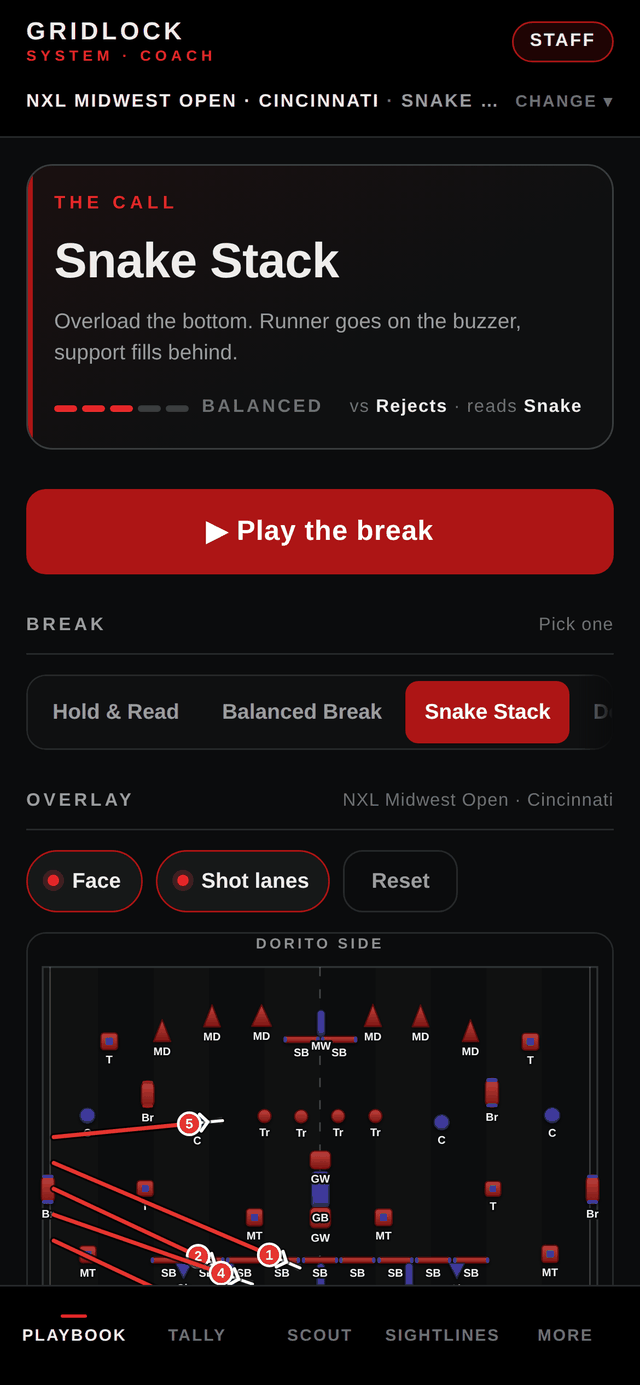
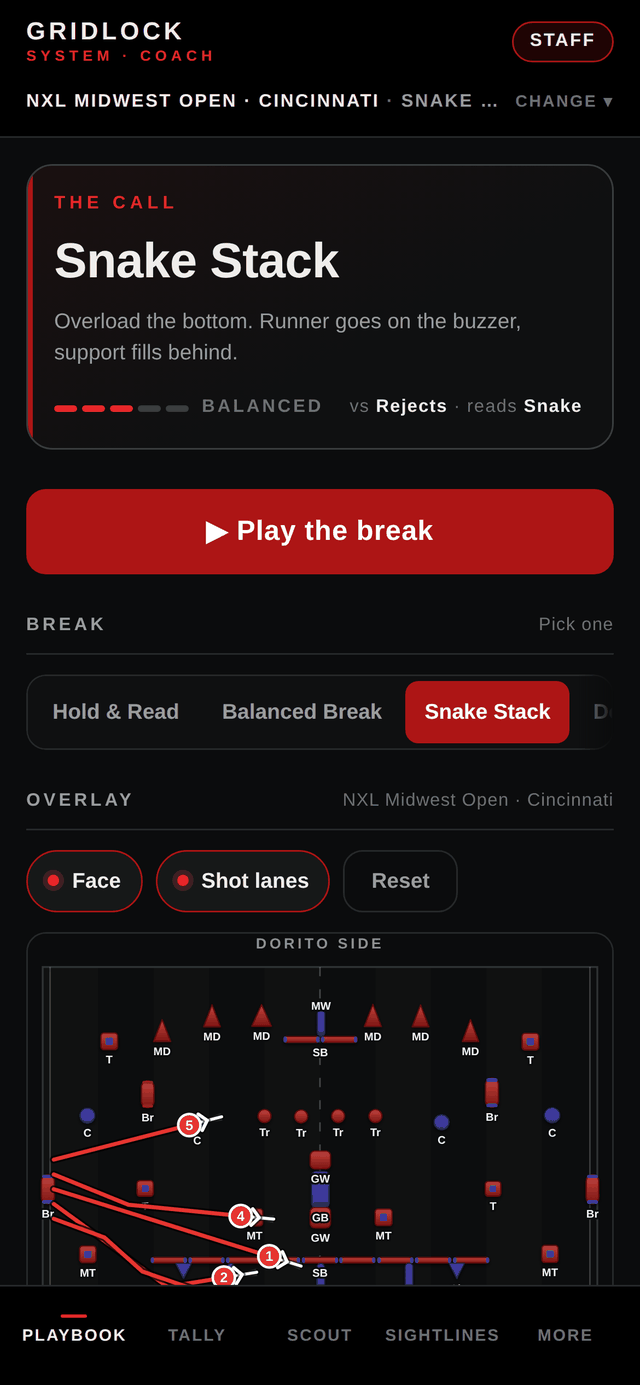
Route the break around bunkers instead of through them
The five used to run straight lines to their plants, which put four legs
clean through the snake and one through Ck. That is not a break, and a
coach who saw it would stop trusting the rest of the screen.

- Route on a visibility graph. Every obstacle corner is a place to plant a
  foot; join the start, the target and those corners wherever the leg
  between them is clear, and take the shortest chain. The old cornering
  loop nudged at a blockage and gave up after ten passes — this one is
  shortest-clear-route or nothing. All 25 legs across the five breaks are
  now clear, worst case three corners.
- Cache the routing per layout+script. It is the same until one of them
  changes, and the break animation asks for it every frame.
- Label a structure once, not once per section. The snake is nine printed
  sections a coach calls by one name, so touching same-code footprints get
  a single code at the middle of the run. Big structures claim their slot
  first, which clears the pile-up around the centre.
- Four routing checks in the suite, so none of this can quietly rot: no leg
  through a bunker, no leg wandering, never more than one player on the
  snake, and the five break from one station.

126/126 function checks, 58/58 bunkers at 0.00 ft, load test within budget.

Claude-Session: https://claude.ai/code/session_019NY29crEcm2oYkRmb2ARNX

diff --git a/web/index.html b/web/index.html
@@ -448,13 +448,16 @@ function breakMeta(k){ return BREAK_META[k] || BREAK_META.base; }
 // A break on a digitized layout is written as the bunker each player plants
 // on, never as a typed coordinate — the position comes from the layout, so
 // the call stays true to the field even if the map is re-digitized.
+// The snake is one continuous beam a player crawls down, not nine bunkers to
+// share out — the official 3D makes that plain. So exactly one player takes it
+// on any break; the rest support off it.
 const BREAK_PLANTS = {
   mwo: {
-    hold:  ["Br#5","T#3","Br#2","T#1","MT#4"],
-    base:  ["SB#4","MT#1","C#4","MD#3","Br#5"],
-    snake: ["SB#6","SB#4","GP#1","MW#3","C#4"],
-    flood: ["MD#1","MD#3","Tr#1","C#4","SB#4"],
-    blitz: ["SB#6","MD#1","Tr#4","GP#1","MT#1"]
+    hold:  ["Ck#1","T#3","Br#2","T#1","MT#4"],
+    base:  ["SB#4","MW#3","MT#1","MD#3","C#4"],
+    snake: ["SB#6","MW#3","GP#1","MT#1","C#4"],
+    flood: ["MD#1","MD#3","Tr#1","C#4","SB#3"],
+    blitz: ["SB#6","GP#1","Tr#4","MD#1","MT#1"]
   }
 };
 
@@ -462,6 +465,91 @@ const BREAK_PLANTS = {
 function wireOf(y){
   return y > 88 ? "snake wire" : y > 66 ? "snake side"
        : y > 44 ? "centre"     : y > 24 ? "dorito side" : "dorito wire";
+}
+
+// Nobody runs through a bunker, and nobody runs through the snake.
+//
+// The snake is one continuous structure printed as nine sections, so for
+// routing they are merged back into a single obstacle — otherwise stepping
+// around one section just lands you in the next. Any bunkers of the same code
+// whose footprints touch are merged the same way.
+function routeObstacles(list, pad){
+  pad = pad === undefined ? 0.9 : pad;   // players run within a foot of a bunker
+  let boxes = list.map(b => ({ids:[b.id], n:b.n,
+    x0:b.x-(b.w||4)/2-pad, x1:b.x+(b.w||4)/2+pad,
+    y0:b.y-(b.h||4)/2-pad, y1:b.y+(b.h||4)/2+pad}));
+  for(let pass = 0; pass < 6; pass++){
+    let merged = false;
+    outer:
+    for(let i = 0; i < boxes.length; i++){
+      for(let j = i + 1; j < boxes.length; j++){
+        const a = boxes[i], b = boxes[j];
+        if(a.n !== b.n) continue;
+        if(a.x0 > b.x1 + 1.5 || b.x0 > a.x1 + 1.5) continue;
+        if(a.y0 > b.y1 + 1.5 || b.y0 > a.y1 + 1.5) continue;
+        boxes[i] = {ids:a.ids.concat(b.ids), n:a.n,
+          x0:Math.min(a.x0,b.x0), x1:Math.max(a.x1,b.x1),
+          y0:Math.min(a.y0,b.y0), y1:Math.max(a.y1,b.y1)};
+        boxes.splice(j, 1);
+        merged = true;
+        break outer;
+      }
+    }
+    if(!merged) break;
+  }
+  return boxes.map(o => ({ids:new Set(o.ids), n:o.n,
+    x:(o.x0+o.x1)/2, y:(o.y0+o.y1)/2, hw:(o.x1-o.x0)/2, hh:(o.y1-o.y0)/2}));
+}
+
+// Route around whatever is in the way, the way a player does: run to a corner,
+// then on. A player never trades a clear lane for a shorter one they cannot
+// take, so this picks the shortest route that is actually clear rather than
+// nudging at the blockage until it gives up.
+//
+// Every corner of every obstacle is a place you can plant a foot. Join the
+// start, the target and all those corners wherever the leg between them is
+// clear, and take the shortest chain. If no chain exists the player is walled
+// in and the straight line stands.
+function routeClear(from, to, targetId, obstacles){
+  // You cannot collide with the bunker you are standing behind: the five start
+  // with a hand on the back-centre bunker, so whatever contains the start is
+  // not an obstacle for that player. Nor is the bunker they are running to.
+  const holds = o => Math.abs(from[0]-o.x) <= o.hw && Math.abs(from[1]-o.y) <= o.hh;
+  const live = obstacles.filter(o => !o.ids.has(targetId) && !holds(o));
+  const clear = (a, b) => !live.some(o => segHitsBox(a[0],a[1],b[0],b[1],o.x,o.y,o.hw,o.hh));
+  const inField = c => c[0] > 1 && c[0] < 149 && c[1] > 1 && c[1] < 119;
+
+  if(clear(from, to)) return [];
+
+  const m = 1.4;                       // a shoulder's clearance off the corner
+  const nodes = [from, to];
+  live.forEach(o => {
+    [[-1,-1],[1,-1],[-1,1],[1,1]].forEach(([sx,sy]) => {
+      const c = [o.x + sx*(o.hw+m), o.y + sy*(o.hh+m)];
+      if(inField(c) && !live.some(k => Math.abs(c[0]-k.x) < k.hw && Math.abs(c[1]-k.y) < k.hh)) nodes.push(c);
+    });
+  });
+
+  const N = nodes.length;
+  const dist = nodes.map(() => Infinity), prev = nodes.map(() => -1), done = nodes.map(() => false);
+  dist[0] = 0;
+  for(;;){
+    let u = -1;
+    for(let i = 0; i < N; i++) if(!done[i] && dist[i] < (u < 0 ? Infinity : dist[u])) u = i;
+    if(u < 0 || u === 1) break;
+    done[u] = true;
+    for(let v = 0; v < N; v++){
+      if(done[v] || v === u) continue;
+      const d = dist[u] + Math.hypot(nodes[v][0]-nodes[u][0], nodes[v][1]-nodes[u][1]);
+      if(d >= dist[v] || !clear(nodes[u], nodes[v])) continue;
+      dist[v] = d; prev[v] = u;
+    }
+  }
+  if(prev[1] < 0) return [];           // walled in — draw it straight and honest
+
+  const via = [];
+  for(let k = prev[1]; k > 1; k = prev[k]) via.unshift(nodes[k]);
+  return via;
 }
 
 function breakPaths(layoutKey, scriptKey){
@@ -472,23 +560,30 @@ function breakPaths(layoutKey, scriptKey){
   const targets = plants.map(id => layout.bunkers.find(b => b.id === id));
   if(targets.some(t => !t)) return fallback;   // layout changed under us
 
-  // All five leave the back-centre station together. Handing out the start
-  // slots in target order keeps the fan legible instead of a knot of crossings.
+  // All five break from the station at the centre of their own back line —
+  // that is where an Xball point starts, not spread across the whole width.
+  // The home back-centre bunker anchors it.
+  const back = layout.bunkers
+    .filter(b => b.x < 20)
+    .sort((a, b) => Math.abs(a.y - 60) - Math.abs(b.y - 60))[0];
+  const cy = back ? back.y : 60;
+  const obstacles = routeObstacles(layout.bunkers);
   const order = targets.map((_, i) => i).sort((p, q) => targets[p].y - targets[q].y);
   const slot = {};
-  order.forEach((idx, k) => { slot[idx] = 46 + k * 7; });
+  order.forEach((idx, k) => { slot[idx] = cy - 8 + k * 4; });   // a 16 ft station
 
   return targets.map((b, i) => {
     const from = [3, slot[i]];
-    const via = [];
-    // Wire runners cut out early and run the tape rather than crossing the field.
-    if(b.y > 88)      via.push([from[0] + (b.x - from[0]) * 0.45, b.y - 7]);
-    else if(b.y < 22) via.push([from[0] + (b.x - from[0]) * 0.45, b.y + 7]);
-    return {id: i + 1, from, to: [b.x, b.y], via,
+    const to = [b.x, b.y];
+    return {id: i + 1, from, to, via: routeClear(from, to, b.id, obstacles),
             label: `${b.n} · ${wireOf(b.y)}`, bunker: b.id};
   });
 }
-function currentPaths(){ return breakPaths(S.layoutKey, S.script); }
+const _pathCache = {};
+function currentPaths(){
+  const k = S.layoutKey + "|" + S.script;
+  return _pathCache[k] || (_pathCache[k] = breakPaths(S.layoutKey, S.script));
+}
 
 // Heuristic rank, not a prediction. Two inputs a coach actually has: what the
 // other pit reads as, and whether you can afford to be patient. Safer calls
@@ -856,25 +951,43 @@ function bunkerShape(b, sx, sy){
   }
 }
 
-// Codes go below the footprint, and shift above it when the slot below is
-// already taken. Without this the centre bunkers print "MW MW MW" on top of
-// one another.
+// One structure, one code.
+//
+// The snake is printed as nine sections but a coach calls it once, so touching
+// footprints that share a code get a single label at the middle of the whole
+// run. Codes go below the structure and shift above it when the slot below is
+// taken, biggest structure first — without this the centre bunkers print
+// "MW MW MW" on top of one another.
 function bunkerLabels(list, sx, sy){
   const FS = 6, CH = 3.4, PAD = 1.2;
+
+  // Merge touching same-code footprints, so nine snake sections read as one.
+  const groups = [];
+  list.forEach(b => {
+    const s = bunkerSize(b, sx, sy), x = b.x*sx, y = b.y*sy;
+    const box = {n: b.n, nm: callOf(b), x0:x-s.h, x1:x+s.h, y0:y-s.v, y1:y+s.v, area:s.h*s.v};
+    const near = groups.find(g => g.n === box.n && g.nm === box.nm
+      && g.x0 <= box.x1 + 1.5 && box.x0 <= g.x1 + 1.5
+      && g.y0 <= box.y1 + 1.5 && box.y0 <= g.y1 + 1.5);
+    if(!near){ groups.push(box); return; }
+    near.x0 = Math.min(near.x0, box.x0); near.x1 = Math.max(near.x1, box.x1);
+    near.y0 = Math.min(near.y0, box.y0); near.y1 = Math.max(near.y1, box.y1);
+    near.area += box.area;
+  });
+
   const placed = [];
-  const hits = (a) => placed.some(b =>
+  const hits = a => placed.some(b =>
     Math.abs(a.cx-b.cx) < (a.w+b.w)/2 + PAD && Math.abs(a.cy-b.cy) < (a.h+b.h)/2 + PAD);
 
-  return list.map(b => {
-    const x = b.x*sx, y = b.y*sy, s = bunkerSize(b, sx, sy);
-    const nm = callOf(b);
-    const w = nm.length*CH + 1, h = FS;
-    const below = {cx:x, cy:y + s.v + FS*0.9, w, h};
-    const above = {cx:x, cy:y - s.v - FS*0.4, w, h};
+  // Big structures claim their slot first — they are the ones a coach hunts for.
+  return groups.slice().sort((a, b) => b.area - a.area).map(g => {
+    const x = (g.x0+g.x1)/2, w = g.nm.length*CH + 1, h = FS;
+    const below = {cx:x, cy:g.y1 + FS*0.9, w, h};
+    const above = {cx:x, cy:g.y0 - FS*0.4, w, h};
     const spot = !hits(below) ? below : (!hits(above) ? above : null);
     if(!spot) return "";                       // no room — the shape still reads
     placed.push(spot);
-    return `<text x="${spot.cx.toFixed(1)}" y="${(spot.cy+FS*0.35).toFixed(1)}" text-anchor="middle" font-size="${FS}" font-weight="600" fill="#f2f4f5" stroke="#0b0c0d" stroke-width="2.1" paint-order="stroke" stroke-linejoin="round">${esc(nm)}</text>`;
+    return `<text x="${spot.cx.toFixed(1)}" y="${(spot.cy+FS*0.35).toFixed(1)}" text-anchor="middle" font-size="${FS}" font-weight="600" fill="#f2f4f5" stroke="#0b0c0d" stroke-width="2.1" paint-order="stroke" stroke-linejoin="round">${esc(g.nm)}</text>`;
   }).join("");
 }
 

diff --git a/test/functions.js b/test/functions.js
@@ -370,6 +370,37 @@ const ROSTER = [
   check("every break plants on a real bunker", lay.plantsOk);
   check("the layout is mirror-symmetric about the 50", Math.abs(lay.axis - 75) < 0.5, `axis ${lay.axis.toFixed(2)} ft over ${lay.pairs} pairs`);
 
+  /* ---------------------------------------------------------- break routing */
+  G("Break routing");
+  const route = await ev(() => {
+    const obs = routeObstacles(LAYOUTS.mwo.bunkers);
+    const legs = [], snakes = [];
+    const snakeIds = new Set(obs.filter(o => o.n === "SB" && o.ids.size > 3).flatMap(o => [...o.ids]));
+    for (const k of Object.keys(BREAK_PLANTS.mwo)) {
+      const paths = breakPaths("mwo", k);
+      snakes.push(paths.filter(p => snakeIds.has(p.bunker)).length);
+      for (const p of paths) {
+        const pts = [p.from, ...p.via, p.to];
+        const holds = o => Math.abs(p.from[0] - o.x) <= o.hw && Math.abs(p.from[1] - o.y) <= o.hh;
+        const live = obs.filter(o => !o.ids.has(p.bunker) && !holds(o));
+        let clip = 0;
+        for (let i = 0; i < pts.length - 1; i++)
+          for (const o of live)
+            if (segHitsBox(pts[i][0], pts[i][1], pts[i+1][0], pts[i+1][1], o.x, o.y, o.hw, o.hh)) clip++;
+        const len = pts.slice(1).reduce((a, c, i) => a + Math.hypot(c[0] - pts[i][0], c[1] - pts[i][1]), 0);
+        legs.push({ script: k, id: p.bunker, clip, len, straight: Math.hypot(p.to[0] - p.from[0], p.to[1] - p.from[1]) });
+      }
+    }
+    const spread = breakPaths("mwo", "snake").map(p => p.from[1]);
+    return { legs, snakes, station: Math.max(...spread) - Math.min(...spread) };
+  });
+  const clipped = route.legs.filter(l => l.clip > 0);
+  check("no break path runs through a bunker", clipped.length === 0,
+        clipped.length ? clipped.map(l => `${l.script}->${l.id}`).join(", ") : `${route.legs.length} legs`);
+  check("every break path stays a sane length", route.legs.every(l => l.len < l.straight * 1.6 + 12));
+  check("never more than one player on the snake", route.snakes.every(n => n <= 1), route.snakes.join(","));
+  check("the five break from one station, not the whole width", route.station <= 20, `${route.station.toFixed(0)} ft`);
+
   /* ------------------------------------------------------------ house rules */
   G("House rules");
   const html = await ev(() => document.documentElement.outerHTML);
